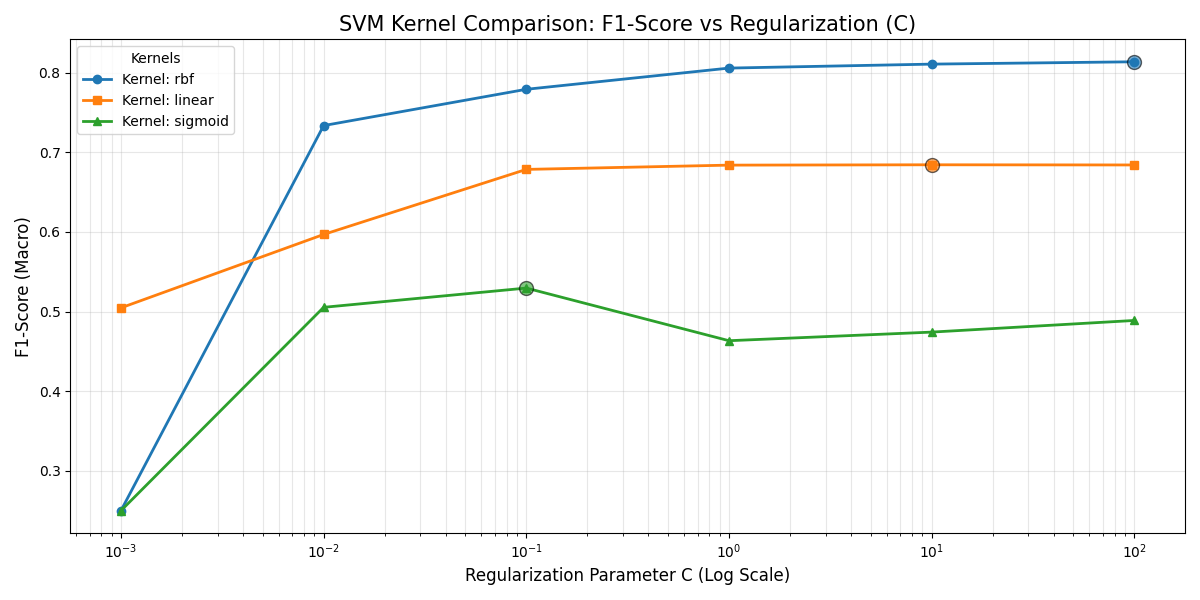
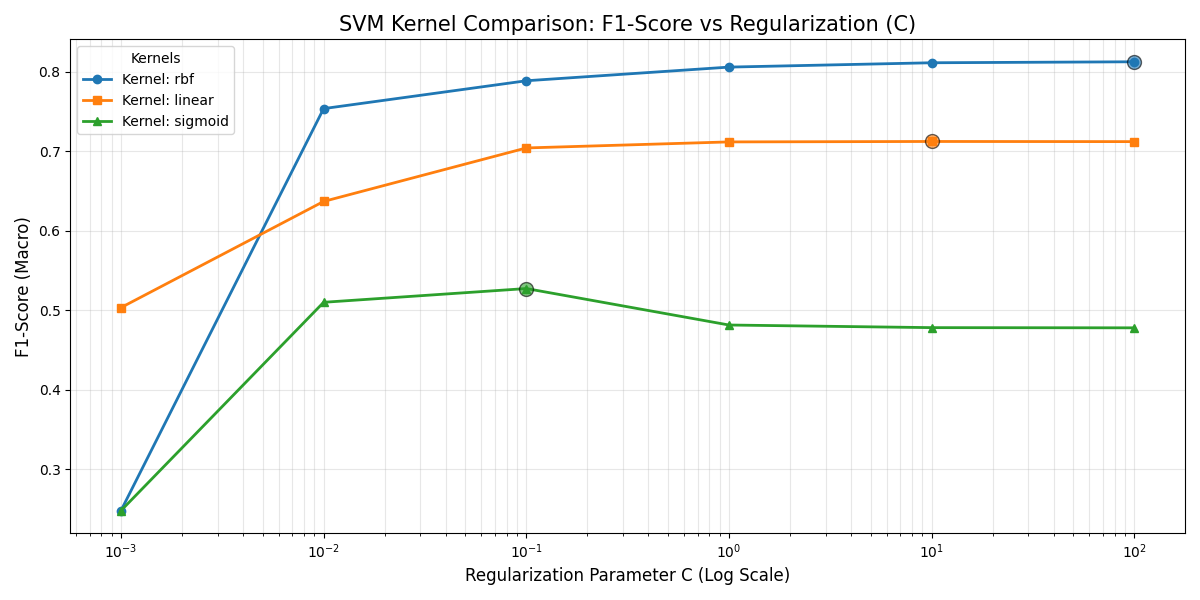
Training loop applied to outlier-free data

diff --git a/src/StarClassifier.py b/src/StarClassifier.py
@@ -21,14 +21,14 @@ from sklearn.metrics import f1_score, accuracy_score, precision_score, recall_sc
 from sklearn.pipeline import make_pipeline
 
 # Custom helper functions
-from helperFuncs import drawCorrelationMatrix, plotKernelPerformanceComparison, plotQualityCheckGraph, printClusterMetrics, plotLogQualityCheckGraph, displayConfusionMatrix
+from helperFuncs import drawCorrelationMatrix, plotKernelPerformanceComparison, plotQualityCheckGraph, printClusterMetrics, plotLogQualityCheckGraph, displayConfusionMatrix, outlierDetection
 
 
 randomState = 42
 
 # Hyperparameters max ranges
-maxK = 1
-maxEstimators = 1
+maxK = 100
+maxEstimators = 100
 
 # Import the Dataset and print its shape
 dataset = pd.read_csv('./dataset/star_classification.csv')
@@ -55,14 +55,52 @@ if not (dataset.isna().any().any() | dataset.duplicated().any()):
     print(f"> No N/A values or duplicated rows found in the dataset")
 
 
-# Pre-check for outliers
-print(f"\n\n> Check for outliers in the dataset")
+# Pre-check for error values
+print(f"\n\n> Check for error values in the dataset")
 print(dataset.describe())
-print(f"\n> Deleting outliers...")
+print(f"\n> Deleting Errors...")
 dataset = dataset[dataset['u'] != -9999]
 dataset = dataset[dataset['g'] != -9999]
 dataset = dataset[dataset['z'] != -9999]
-print(f"> Outliers removed... New Shape: {dataset.shape}")
+print(f"> Error values removed... New Shape: {dataset.shape}")
+
+
+
+## Outlier Detection
+detectionFeatures = ['u', 'g', 'r', 'i', 'z', 'redshift']
+X_tmp = dataset[detectionFeatures]
+
+# Run Detection
+mask, scores, threshold = outlierDetection(X_tmp)
+
+# Visualize Detection Results
+fig, axes = plt.subplots(1, 2, figsize=(16, 6))
+plt.suptitle("GMM Outlier Detection Results", fontsize=16)
+
+# 1. Histogram of Likelihoods
+sns.histplot(scores, bins=50, kde=True, ax=axes[0], color='skyblue')
+axes[0].axvline(threshold, color='red', linestyle='--', linewidth=2, label=f'Threshold: {threshold:.2f}')
+axes[0].set_title("Log-Likelihood Distribution")
+axes[0].set_xlabel("Log-Likelihood (Density)")
+axes[0].legend()
+
+# 2. PCA Projection
+pca_vis = PCA(n_components=2, random_state=randomState)
+X_pca_vis = pca_vis.fit_transform(StandardScaler().fit_transform(X_tmp))
+sns.scatterplot(x=X_pca_vis[:,0], y=X_pca_vis[:,1], hue=mask, palette={False: 'gray', True: 'red'}, alpha=0.6, ax=axes[1])
+axes[1].set_title(f"Detected Outliers (Red: {np.sum(mask)} points)")
+axes[1].set_xlabel("PC1")
+axes[1].set_ylabel("PC2")
+
+plt.tight_layout()
+plt.show()
+
+# Apply Removal
+print(f"> Removing {np.sum(mask)} outliers detected via GMM...")
+dataset = dataset[~mask]
+dataset.reset_index(drop=True, inplace=True)
+print(f"> Outliers removed. Final Shape: {dataset.shape}")
+
 
 
 # Check class distribution
@@ -93,75 +131,6 @@ dataset['class'] = LE.fit_transform(dataset['class'])
 print(dataset.head())
 
 
-print("\n\n> Outlier Detection: GMM + 1.5 IQR Rule (With vs Without Redshift)")
-# Version with Redshift
-cols_with_z = ['u', 'g', 'r', 'i', 'z', 'redshift']
-X_with_z = dataset[cols_with_z]
-
-# Version 2: Without Redshift
-X_no_z = dataset[cols_with_z].drop(columns=['redshift'])
-
-
-# 2. Run Detection
-outliers_z, scores_z, thresh_z = detect_outliers_gmm_iqr(X_with_z)
-outliers_no_z, scores_no_z, thresh_no_z = detect_outliers_gmm_iqr(X_no_z)
-
-print(f"Outliers detected (With Redshift): {np.sum(outliers_z)} / {len(X_with_z)} ({np.sum(outliers_z)/len(X_with_z):.2%})")
-print(f"Outliers detected (No Redshift):   {np.sum(outliers_no_z)} / {len(X_no_z)} ({np.sum(outliers_no_z)/len(X_no_z):.2%})")
-
-# 3. Visualization
-fig, axes = plt.subplots(2, 2, figsize=(18, 12))
-plt.suptitle("Outlier Detection Comparison: GMM + 1.5 IQR Rule", fontsize=16)
-
-# --- Top Row: Distribution of Log-Likelihood Scores ---
-# With Redshift
-sns.histplot(scores_z, bins=50, kde=True, ax=axes[0,0], color='skyblue')
-axes[0,0].axvline(thresh_z, color='red', linestyle='--', linewidth=2, label=f'Threshold: {thresh_z:.2f}')
-axes[0,0].set_title("Log-Likelihood Distribution (With Redshift)")
-axes[0,0].set_xlabel("Log-Likelihood (Density)")
-axes[0,0].legend()
-
-# Without Redshift
-sns.histplot(scores_no_z, bins=50, kde=True, ax=axes[0,1], color='orange')
-axes[0,1].axvline(thresh_no_z, color='red', linestyle='--', linewidth=2, label=f'Threshold: {thresh_no_z:.2f}')
-axes[0,1].set_title("Log-Likelihood Distribution (Without Redshift)")
-axes[0,1].set_xlabel("Log-Likelihood (Density)")
-axes[0,1].legend()
-
-# --- Bottom Row: PCA Projection of Outliers ---
-# Project to 2D for visualization
-# Note: transforming the SAME data (X_with_z) for both plots to ensure the 
-# dots are in the same visual "place", just colored differently.
-pca_vis = PCA(n_components=2, random_state=42)
-X_pca_vis = pca_vis.fit_transform(StandardScaler().fit_transform(X_with_z))
-
-# Plot With Redshift
-sns.scatterplot(x=X_pca_vis[:,0], y=X_pca_vis[:,1], hue=outliers_z, palette={False: 'gray', True: 'red'}, alpha=0.6, ax=axes[1,0])
-axes[1,0].set_title("Detected Outliers (Red) - With Redshift")
-axes[1,0].set_xlabel("PC1")
-axes[1,0].set_ylabel("PC2")
-
-# Plot Without Redshift
-sns.scatterplot(x=X_pca_vis[:,0], y=X_pca_vis[:,1], hue=outliers_no_z, palette={False: 'gray', True: 'red'}, alpha=0.6, ax=axes[1,1])
-axes[1,1].set_title("Detected Outliers (Red) - Without Redshift")
-axes[1,1].set_xlabel("PC1")
-axes[1,1].set_ylabel("PC2")
-
-plt.tight_layout()
-plt.show()
-
-# 4. Drop the outliers from the main dataset
-print(f"\n> Removing {np.sum(outliers_z)} outliers detected via GMM + 1.5IQR (With Redshift)...")
-
-# Apply mask (Length should now match perfectly)
-dataset = dataset[~outliers_z]
-
-# Reset index to maintain cleanliness for future splits
-dataset.reset_index(drop=True, inplace=True)
-
-print(f"> Outliers removed via GMM method... Final Shape: {dataset.shape}")
-
-
 # Feature correlation analysis
 print(f"\n\n> Feature correlation analysis")
 CM = drawCorrelationMatrix(dataset)
@@ -181,11 +150,11 @@ dataset['u_g'] = dataset['u'] - dataset['g']
 dataset['g_r'] = dataset['g'] - dataset['r']
 dataset['r_i'] = dataset['r'] - dataset['i']
 dataset['i_z'] = dataset['i'] - dataset['z']
-dataset = dataset.drop(columns=['u', 'g', 'i', 'z', 'redshift', 'alpha', 'delta'])
+dataset = dataset.drop(columns = ['u', 'g', 'i', 'z', 'redshift', 'alpha', 'delta'])
 for pair in pairs:
     toDrop = pair[1]
     if toDrop in dataset.columns:
-        dataset = dataset.drop(columns=[toDrop])
+        dataset = dataset.drop(columns = [toDrop])
         print(f"> Dropped feature: {toDrop}")
 print(f"\n\n> Optimized correlation matrix:\n{drawCorrelationMatrix(dataset).data}")
 
@@ -222,7 +191,7 @@ for n_neighbors in Ks:
 bestK = Ks[np.argmax(KNNcrossValidationScores)]
 
 # TODO: DELETE THIS
-bestK = 15
+#bestK = 15
 
 # Retrain with that K to show graphs related to this iteration
 print(f"\n> Best k value for KNN found to be {bestK} with F1-score = {max(KNNcrossValidationScores):.4f}: Retraining KNN with best k to show related graphs and metrics")
@@ -253,7 +222,7 @@ for n_estimators in estimators:
 bestEstimator = estimators[np.argmax(RFcrossValidationScores)]
 
 # TODO: DELETE THIS 
-bestEstimator = 96
+#bestEstimator = 96
 
 print(f"\n> Best validation F1-score: {max(RFcrossValidationScores):.4f} achieved at n_estimators = {bestEstimator}... Retrain RFC with best n_estimators to show related graphs")
 bestRFCPipeline = make_pipeline(StandardScaler(), RandomForestClassifier(n_estimators = bestEstimator, random_state = randomState))
@@ -275,7 +244,7 @@ sampleIndex = np.random.choice(X_train.index, size=int(len(X_train) * 0.1), repl
 Xsplit = X_train.loc[sampleIndex]
 ysplit = y_train.loc[sampleIndex]
 print(f"\n> Tuning SVM on subset of {len(Xsplit)} rows...")
-
+ 
 Cs = [0.001, 0.01, 0.1, 1, 10, 100]
 kernels = ['rbf', 'linear', 'sigmoid']
 kernelResults = {}
